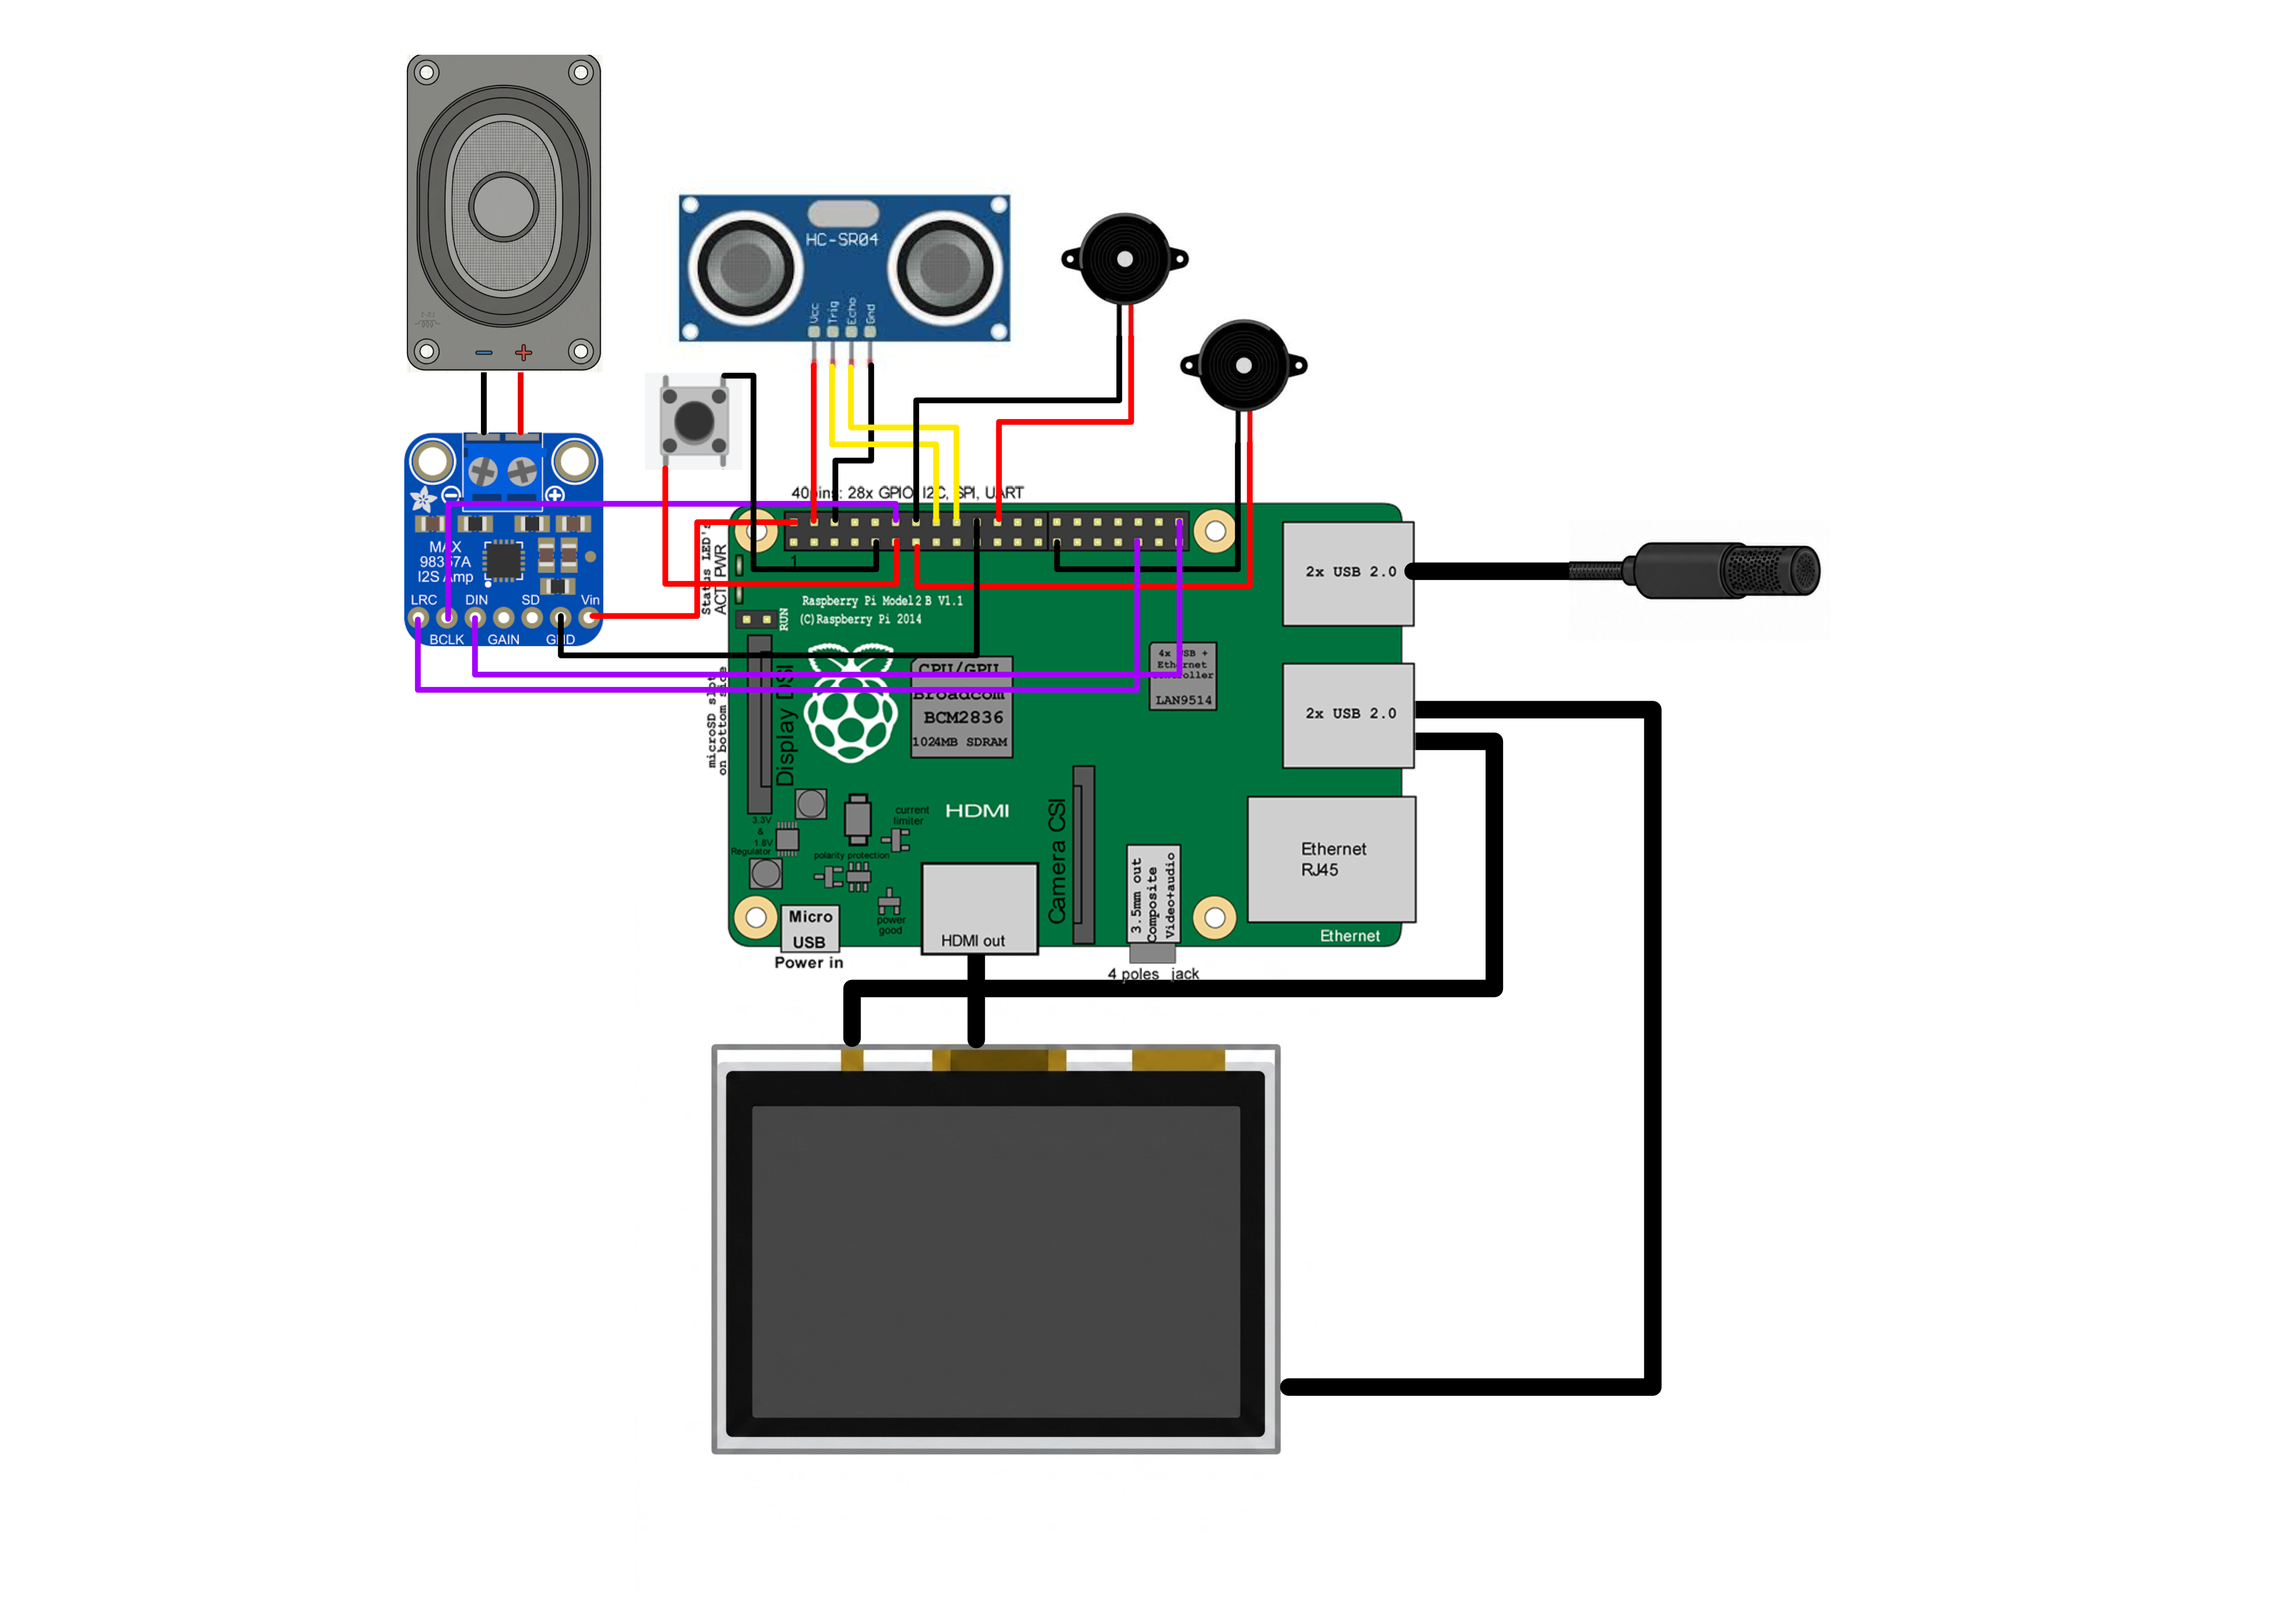
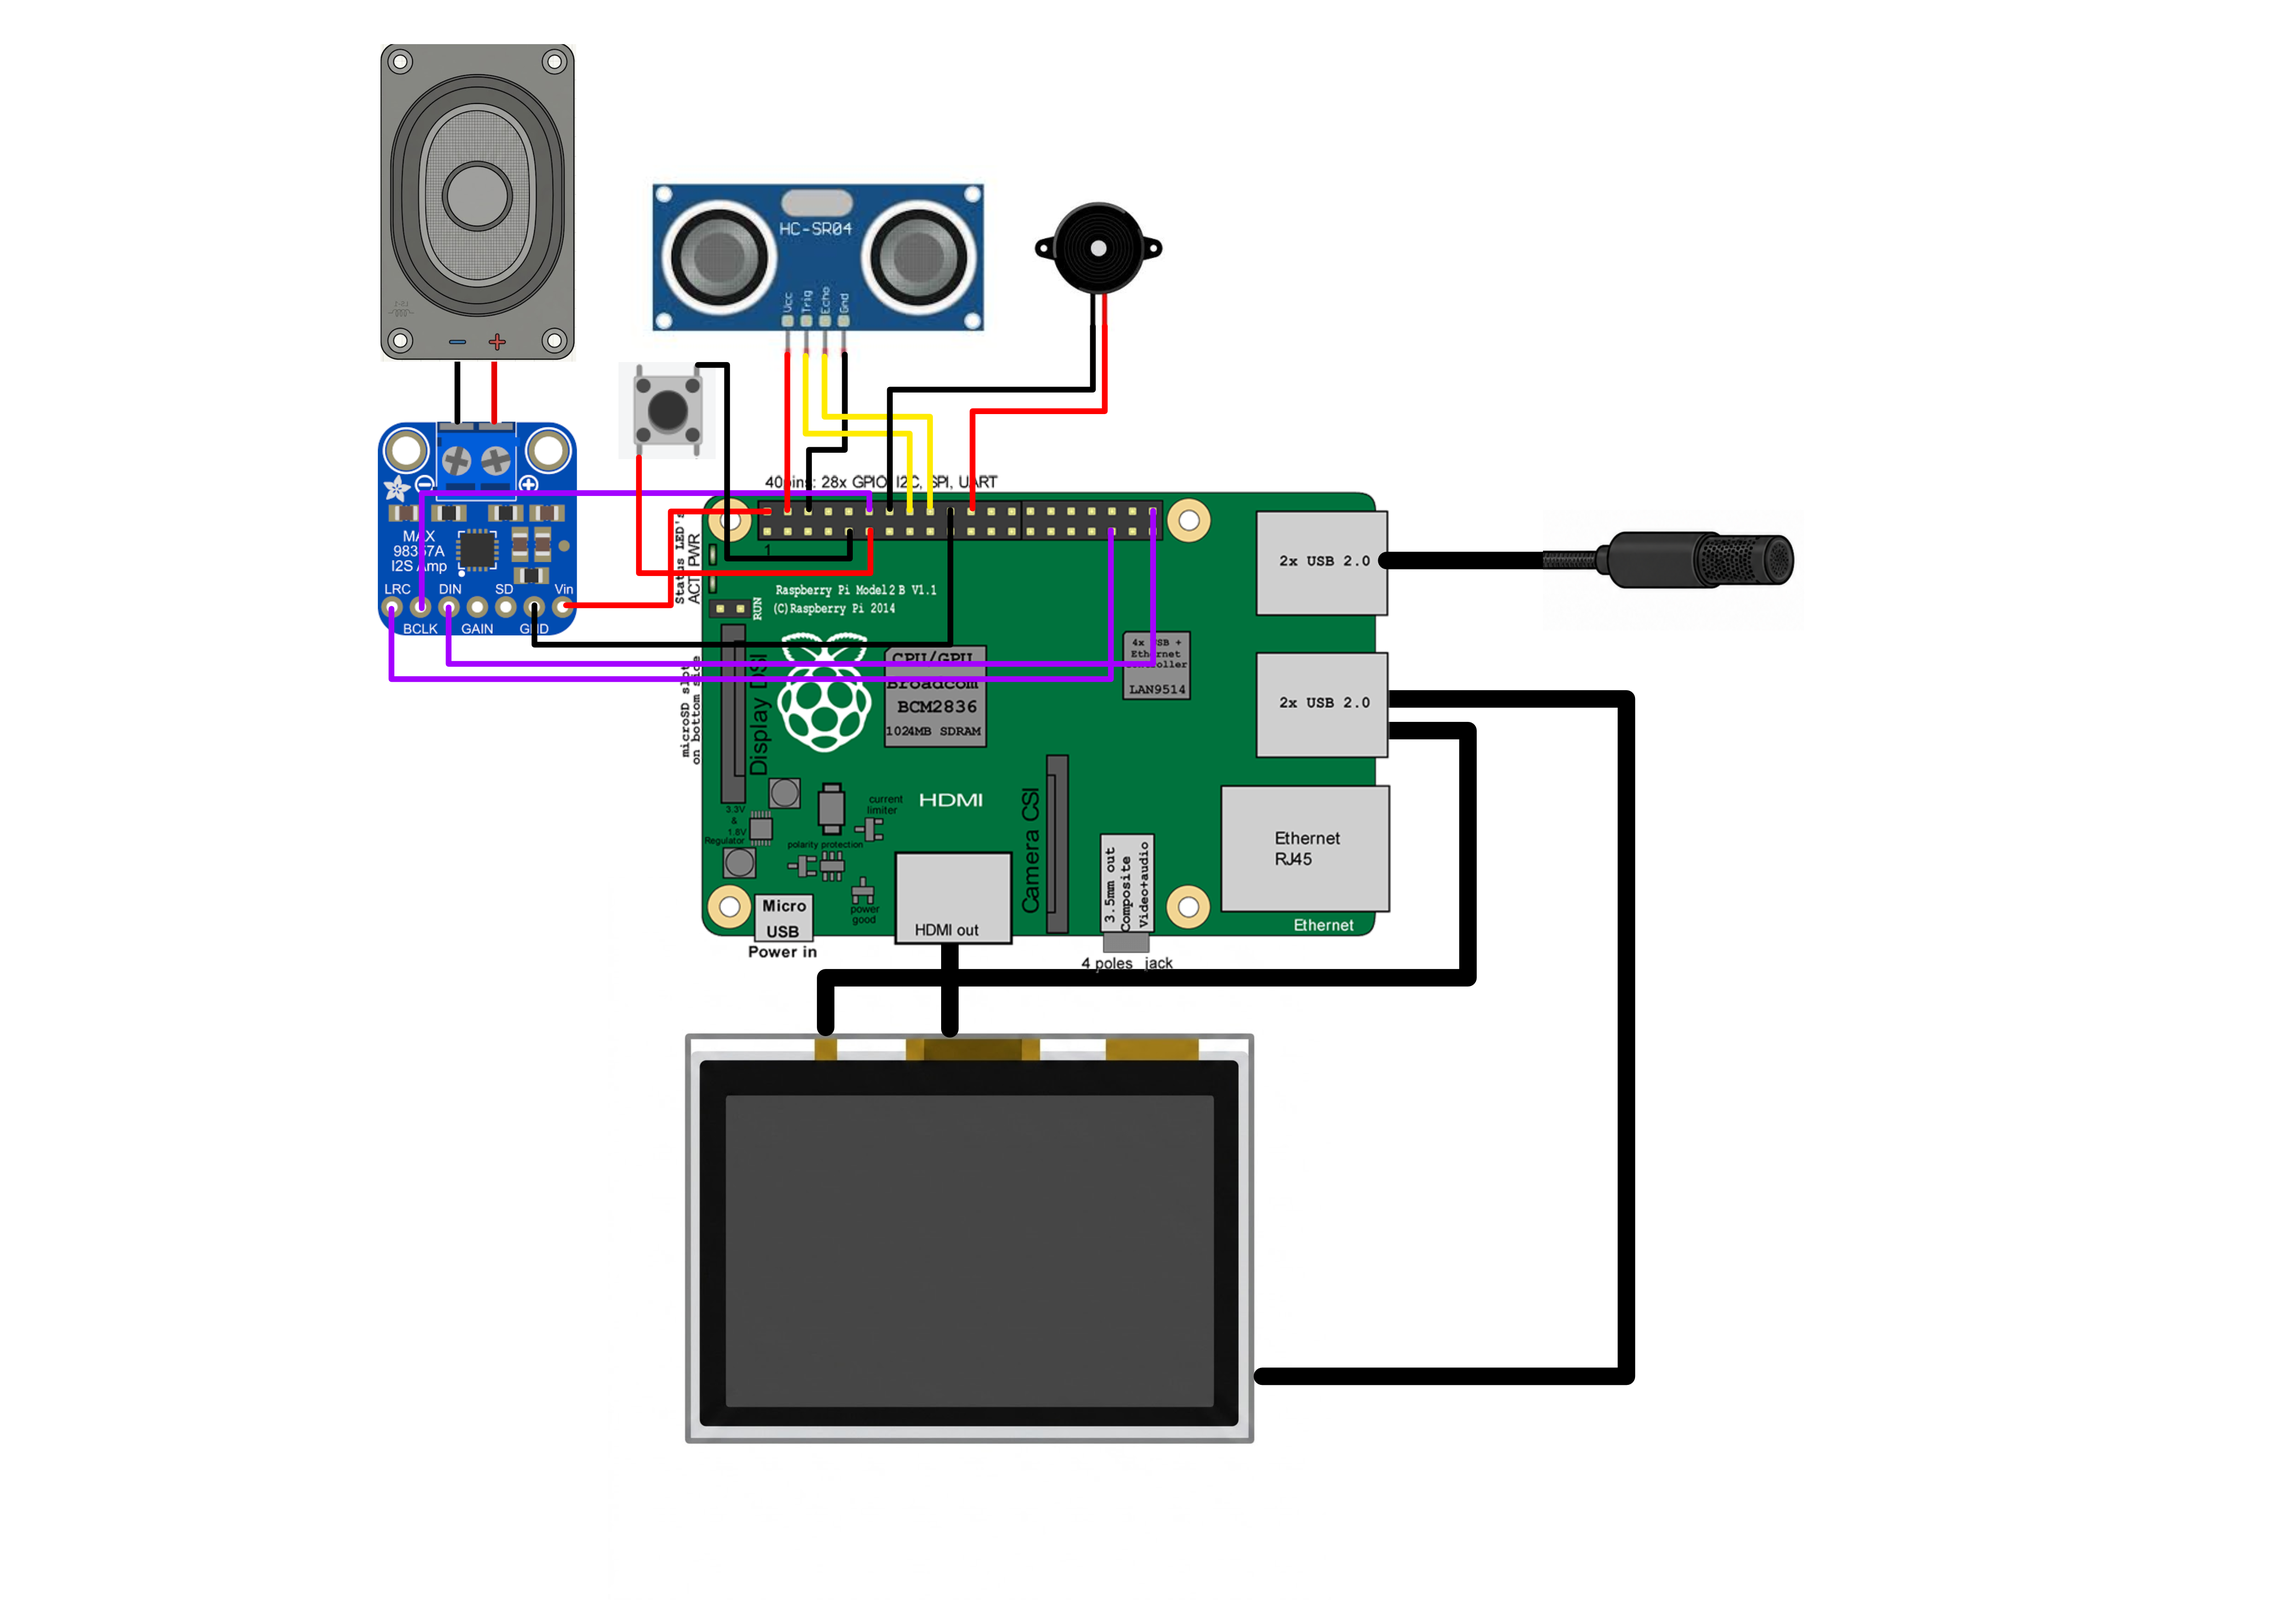
weg buzzer

Changed region(s): [[0.1562, 0.0, 0.8123, 0.9011]]

diff --git a/src/assistent/TasteMate_Rpi.py b/src/assistent/TasteMate_Rpi.py
@@ -6,7 +6,7 @@ import pygame
 import io
 import json
 import os
-from gpiozero import Button, Buzzer
+from gpiozero import Button
 from key import GEMINI_API_KEY
 
 # Audio via ALSA gebruiken, nodig voor Raspberry Pi / MAX98357A
@@ -30,10 +30,6 @@ r = sr.Recognizer()
 # Knop aangesloten tussen GPIO17 en GND
 BUTTON_PIN = 17
 button = Button(BUTTON_PIN, pull_up=True, bounce_time=0.1)
-
-# Buzzer op GPIO27
-BUZZER_PIN = 27
-buzzer = Buzzer(BUZZER_PIN)
 
 # Luistertijd na knop
 PHRASE_TIME_LIMIT = 10
@@ -87,15 +83,6 @@ def inventory_naar_tekst(inventory):
     return "\n".join(regels)
 
 
-async def piep_twee_maal():
-    """Laat de buzzer 2 maal piepen."""
-    for _ in range(2):
-        buzzer.on()
-        await asyncio.sleep(1)
-        buzzer.off()
-        await asyncio.sleep(1)
-
-
 async def speak(text):
 
     # Tekst naar spraak via Edge TTS
@@ -146,9 +133,6 @@ async def main():
                 button.wait_for_press()
 
                 print("Knop ingedrukt.")
-
-                # Buzzer 2 maal laten piepen
-                await piep_twee_maal()
 
                 print("Assistent luistert nu...")
 

diff --git a/src/README.md b/src/README.md
@@ -16,6 +16,7 @@ Het systeem gebruikt deze logica:
 <p align="center">
   <img src="/img/wakeup_flowchart.svg" width="50%">
 </p>
+
 ### Webservers
 Op het scherm dat wordt ingeschakeld door het wake-upmechanisme, wordt de interface weergegeven. Deze houdt de inventaris van de koelkast bij. De inventaris bevat gegevens zoals de houdbaarheidsdatum, het aantal en de locatie van producten.
 
